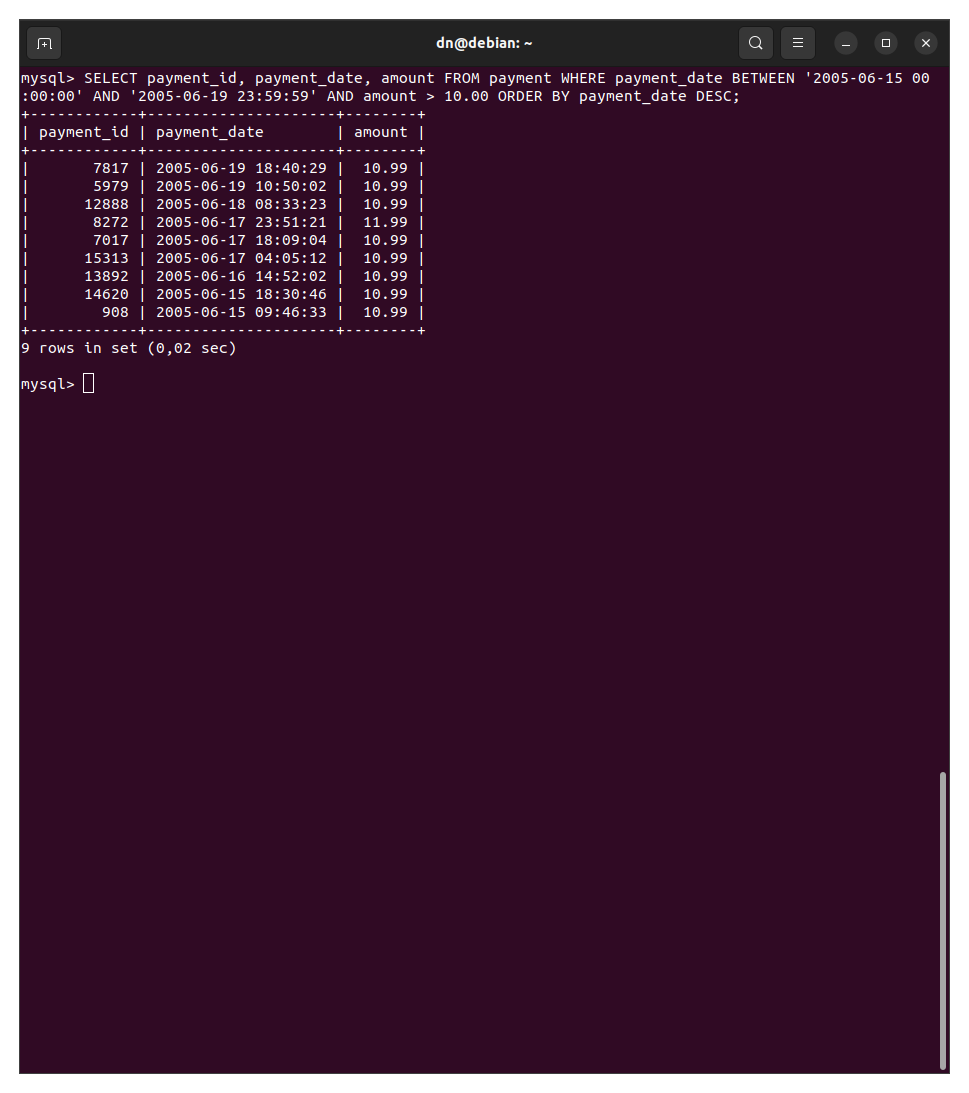
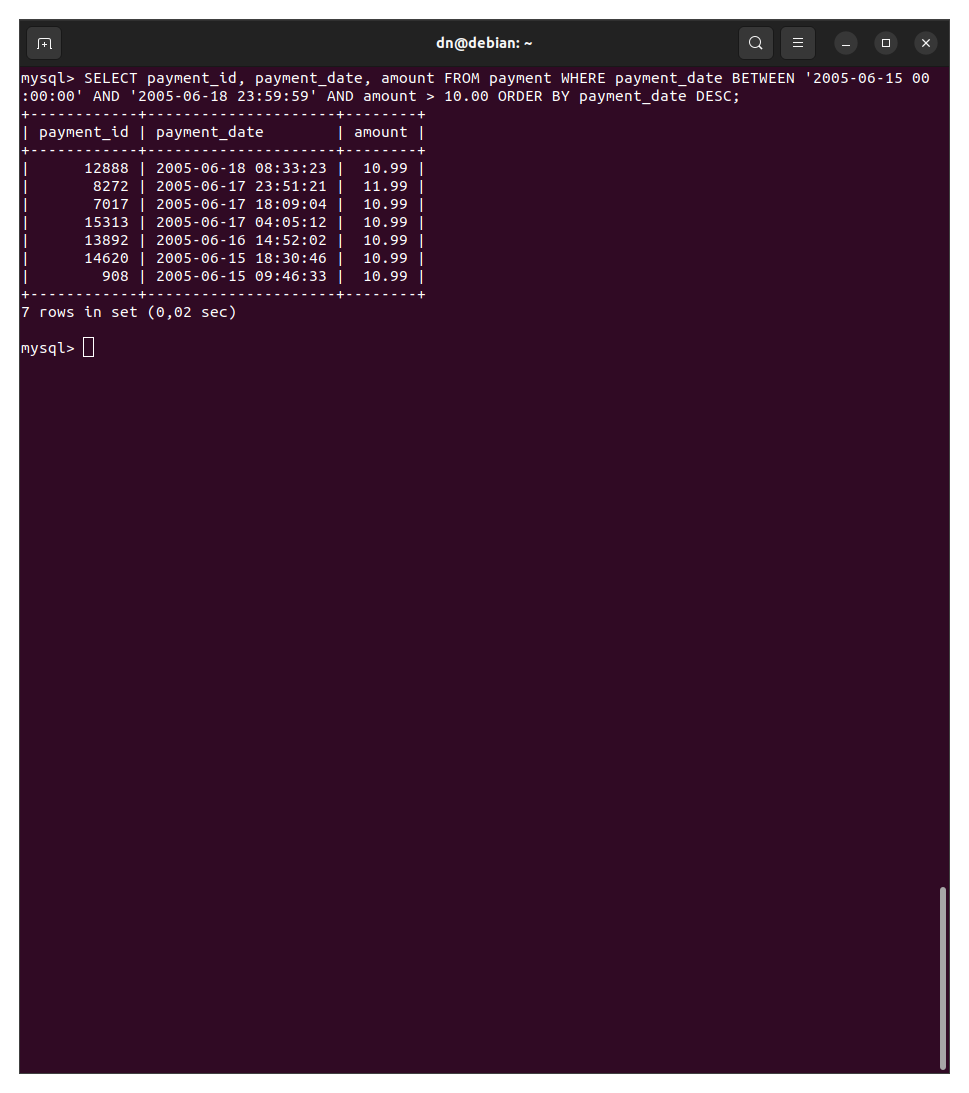
editing 2 task

Changed region(s): [[0.031, 0.1555, 0.3406, 0.3733], [0.3715, 0.2489, 0.4334, 0.3111], [0.9598, 0.7155, 0.9907, 0.8088]]

diff --git a/README.md b/README.md
@@ -15,7 +15,7 @@ SELECT DISTINCT district FROM address WHERE district like 'K%a' and district not
 Получите из таблицы платежей за прокат фильмов информацию по платежам, которые выполнялись в промежуток с 15 июня 2005 года по 18 июня 2005 года включительно и стоимость которых превышает 10.00.
 
 ```SQL
-SELECT payment_id, payment_date, amount FROM payment WHERE payment_date BETWEEN '2005-06-15' AND '2005-06-19' AND amount > 10.00 ORDER BY payment_date DESC;
+SELECT payment_id, payment_date, amount FROM payment WHERE payment_date BETWEEN '2005-06-15' AND '2005-06-18' AND amount > 10.00 ORDER BY payment_date DESC;
 ```
 
 ![alt text](https://github.com/mxssclxck/hw-12.03/blob/main/img/2.png)
@@ -24,7 +24,7 @@ SELECT payment_id, payment_date, amount FROM payment WHERE payment_date BETWEEN 
 Доработка:
 
 ```SQL
-SELECT payment_id, payment_date, amount FROM payment WHERE payment_date BETWEEN '2005-06-15 00:00:00' AND '2005-06-19 23:59:59' AND amount > 10.00 ORDER BY payment_date DESC;
+SELECT payment_id, payment_date, amount FROM payment WHERE payment_date BETWEEN '2005-06-15 00:00:00' AND '2005-06-18 23:59:59' AND amount > 10.00 ORDER BY payment_date DESC;
 ```
 
 ![alt text](https://github.com/mxssclxck/hw-12.03/blob/main/img/2.1.png)
